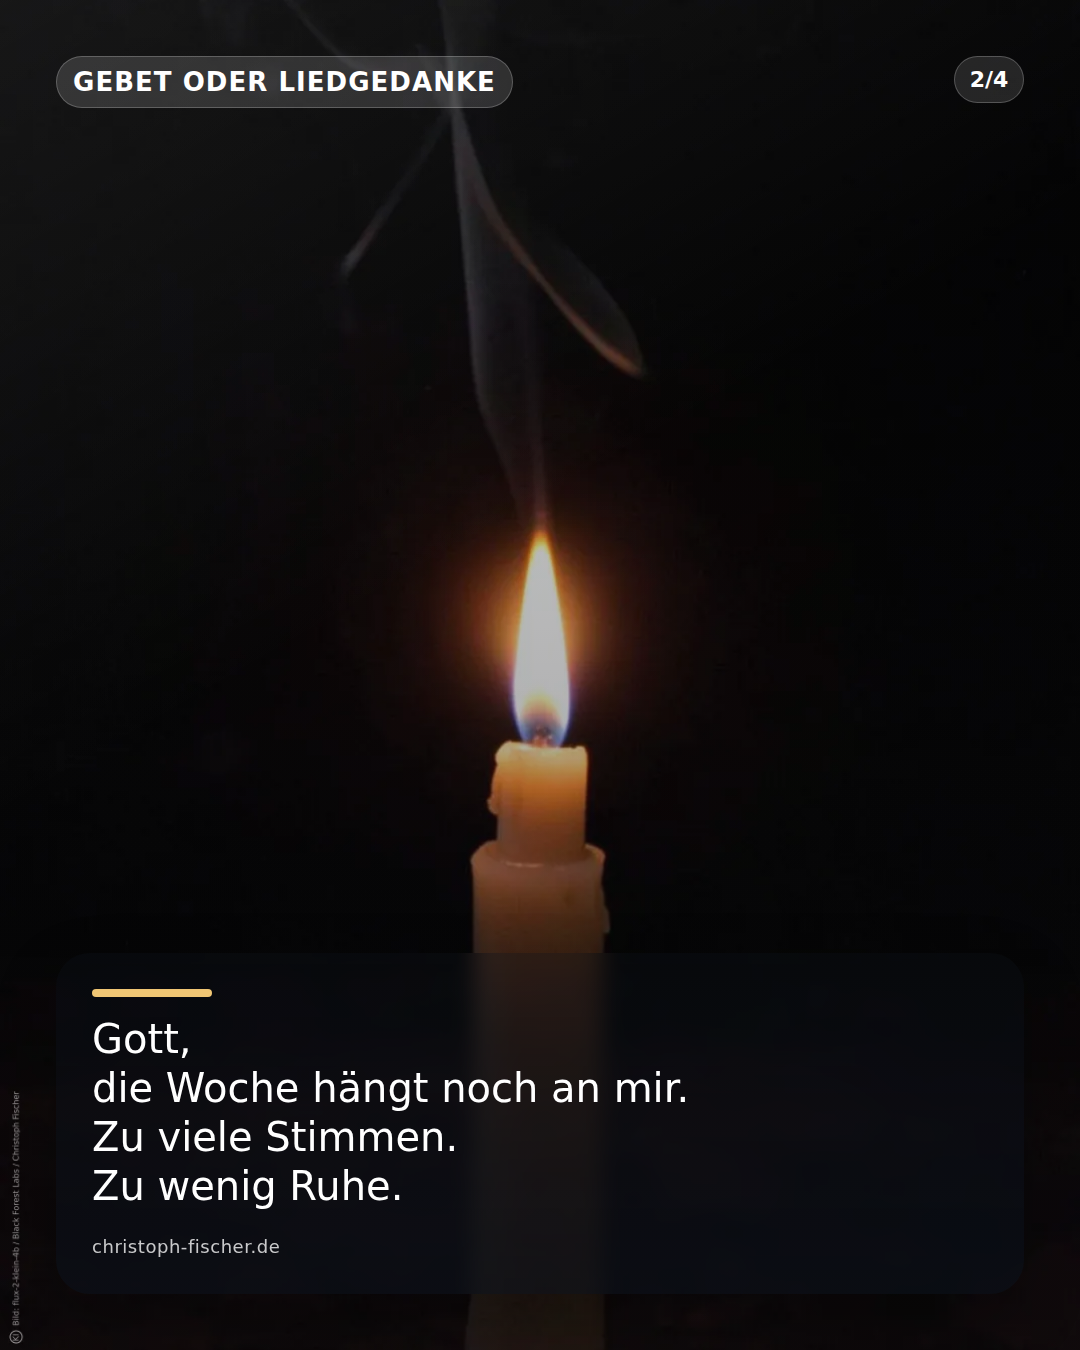
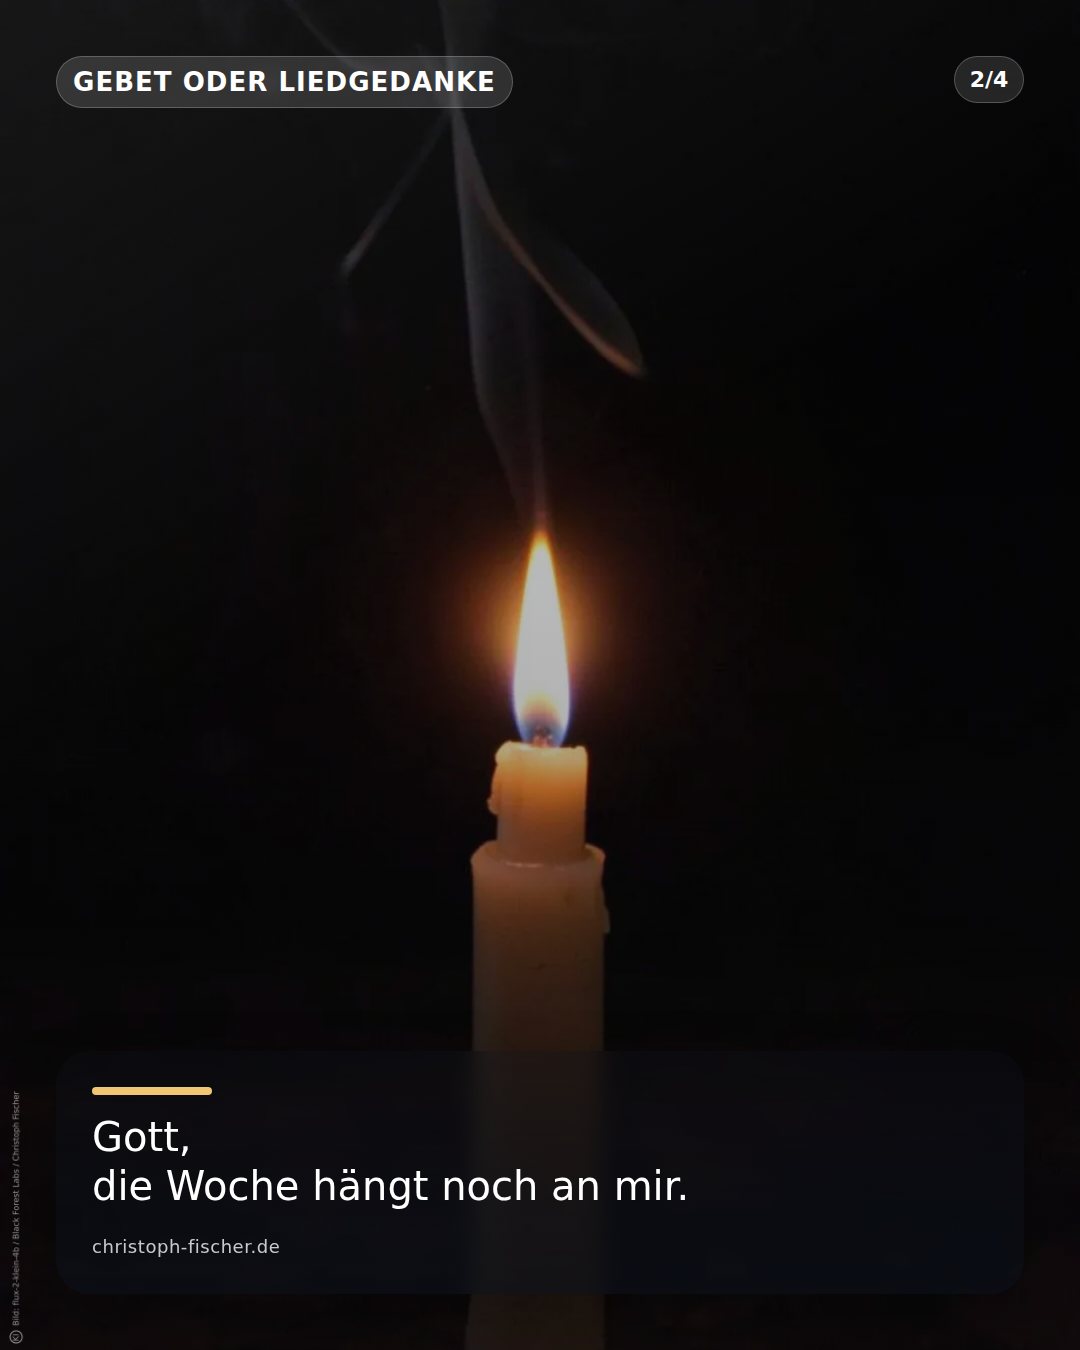
Update content: GET /files/2026-08-28/post-0019/render-instagram-feed-04.png

diff --git a/2026-08-28/post-0019/render-instagram-feed-02.html b/2026-08-28/post-0019/render-instagram-feed-02.html
@@ -402,9 +402,7 @@
   <div class="accent-line"></div>
    
   <p class="body-text" data-overflow-id="primary-text">Gott,
-die Woche hängt noch an mir.
-Zu viele Stimmen.
-Zu wenig Ruhe.</p>
+die Woche hängt noch an mir.</p>
      
   <p class="sender-mark">christoph-fischer.de</p>
 </section>
